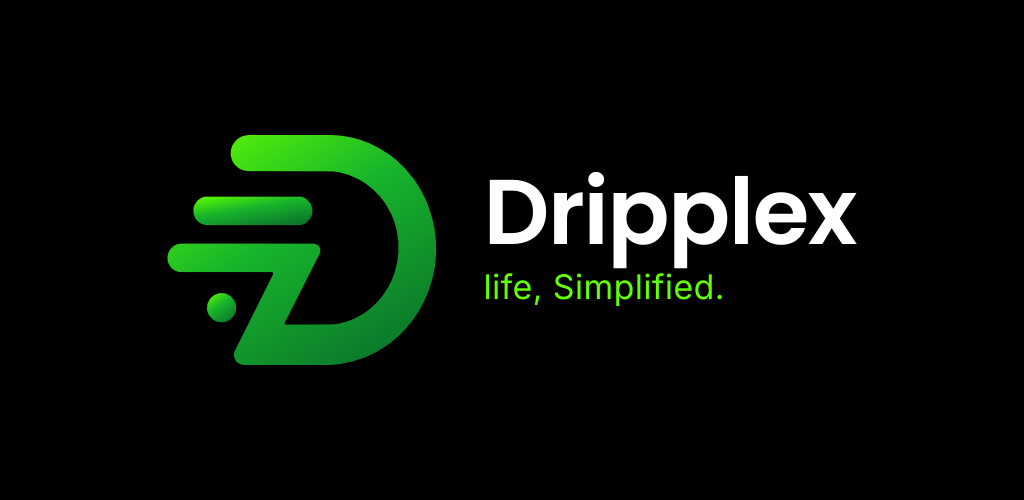
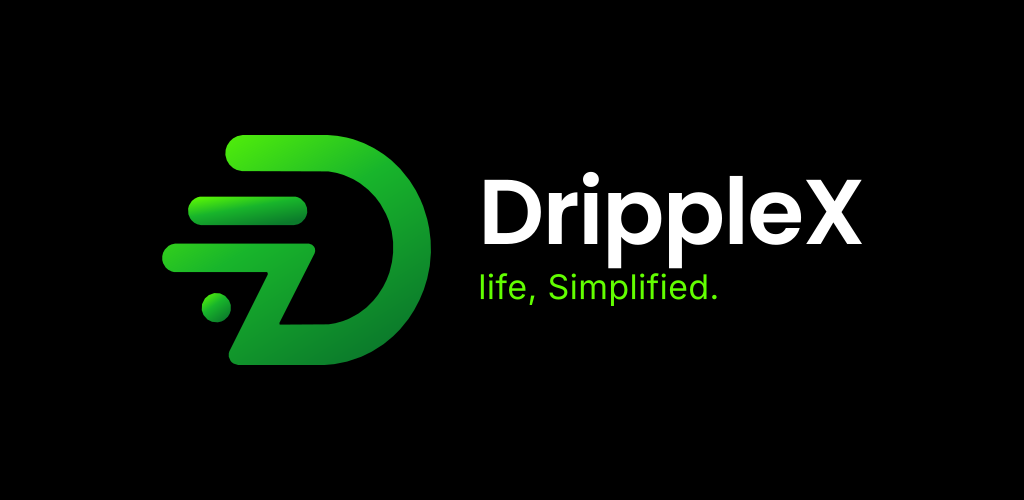
The app is called DrippleX, not Dripplex (#325)
* Record the DUNS, and what it does and does not unlock for iOS

Founder decision 2026-08-28: park App Store work until after Saturday's driver
dinner. Written down rather than remembered — this project runs across separate
sessions and the repo is the only thing that carries state between them.

Dun & Bradstreet issued the D-U-N-S on 2026-08-28, activating in 2-3 days. That
was the gate on Apple Developer Program ORGANIZATION enrolment: the difference
between publishing as DrippleX and publishing as an individual.

The note exists mainly for the two things that are easy to lose:

The legal-name check. Apple verifies the applicant against the D&B record, and
a mismatch is the usual reason an organization enrolment stalls for weeks.
DrippleX is a trading name of Afnan Homes Ltd (RC 9387949) per the Terms, so
which name the DUNS was issued under has to be confirmed with D&B and corrected
THERE, before applying — not after Apple rejects it.

And the blockers the DUNS does not remove: no macOS to archive on (CI validates
the scaffold only, so a .ipa needs Mac hardware, MacStadium or Xcode Cloud — a
purchase, not a code change), default app icons still waiting on the vector
logo, aps-environment still `development`, and no signing team.

Nothing here blocks Android, which is what the launch runs on.

Docs only.

Claude-Session: https://claude.ai/code/session_01X23TQjjx1mwLFzPHqgd2Kw

* The app icons were never a blocker — correct the row that said they were
[…]

diff --git a/apps/operations-console/src/app/layout.tsx b/apps/operations-console/src/app/layout.tsx
@@ -20,10 +20,10 @@ const sans = Manrope({
 
 export const metadata: Metadata = {
   title: {
-    default: 'Dripplex Operations Console',
-    template: `%s · Dripplex Operations Console`,
+    default: 'DrippleX Operations Console',
+    template: `%s · DrippleX Operations Console`,
   },
-  description: 'Dripplex operations console — live Backend Core integration via sdk-admin.',
+  description: 'DrippleX operations console — live Backend Core integration via sdk-admin.',
   icons: {
     icon: [{ url: '/favicon.svg', type: 'image/svg+xml' }],
     apple: [{ url: '/app-icon.svg' }],

diff --git a/apps/merchant-portal/src/app/layout.tsx b/apps/merchant-portal/src/app/layout.tsx
@@ -20,10 +20,10 @@ const sans = Manrope({
 
 export const metadata: Metadata = {
   title: {
-    default: 'Dripplex Merchant Portal',
-    template: `%s · Dripplex Merchant Portal`,
+    default: 'DrippleX Merchant Portal',
+    template: `%s · DrippleX Merchant Portal`,
   },
-  description: 'Dripplex merchant portal — live Backend Core integration via sdk-merchant.',
+  description: 'DrippleX merchant portal — live Backend Core integration via sdk-merchant.',
   icons: {
     icon: [{ url: '/favicon.svg', type: 'image/svg+xml' }],
     apple: [{ url: '/app-icon.svg' }],

diff --git a/apps/driver-portal/src/app/layout.tsx b/apps/driver-portal/src/app/layout.tsx
@@ -20,10 +20,10 @@ const sans = Manrope({
 
 export const metadata: Metadata = {
   title: {
-    default: 'Dripplex Driver Portal',
-    template: `%s · Dripplex Driver Portal`,
+    default: 'DrippleX Driver Portal',
+    template: `%s · DrippleX Driver Portal`,
   },
-  description: 'Dripplex driver portal — live Backend Core integration via sdk-driver.',
+  description: 'DrippleX driver portal — live Backend Core integration via sdk-driver.',
   icons: {
     icon: [{ url: '/favicon.svg', type: 'image/svg+xml' }],
     apple: [{ url: '/app-icon.svg' }],

diff --git a/apps/super-app/index.html b/apps/super-app/index.html
@@ -25,7 +25,7 @@
       <!-- Colours the Android status/URL bar to match the app instead of
            leaving a white strip above a navy screen. -->
       <meta name="theme-color" content="#060E1C" />
-      <title>Dripplex — life, Simplified</title>
+      <title>DrippleX — life, Simplified</title>
       <meta name="description" content="An all-in-one super app offering seamless ride-hailing, unified marketplace shopping, digital wallet, and merchant management for a simplified daily life." />
       <meta name="robots" content="noindex, nofollow" />
 

diff --git a/apps/rider-portal/src/app/layout.tsx b/apps/rider-portal/src/app/layout.tsx
@@ -20,10 +20,10 @@ const sans = Manrope({
 
 export const metadata: Metadata = {
   title: {
-    default: 'Dripplex Rider Portal',
-    template: `%s · Dripplex Rider Portal`,
+    default: 'DrippleX Rider Portal',
+    template: `%s · DrippleX Rider Portal`,
   },
-  description: 'Dripplex rider portal — live Backend Core integration via sdk-rider.',
+  description: 'DrippleX rider portal — live Backend Core integration via sdk-rider.',
   icons: {
     icon: [{ url: '/favicon.svg', type: 'image/svg+xml' }],
     apple: [{ url: '/app-icon.svg' }],

diff --git a/apps/customer-mobile/capacitor.config.ts b/apps/customer-mobile/capacitor.config.ts
@@ -21,7 +21,7 @@ const serverUrl = process.env['CAPACITOR_SERVER_URL'] ?? 'https://app.dripplex.c
 
 const config: CapacitorConfig = {
   appId: 'com.dripplex.customer',
-  appName: 'Dripplex',
+  appName: 'DrippleX',
   webDir: 'www',
   server: {
     url: serverUrl,

diff --git a/docs/mobile/IOS.md b/docs/mobile/IOS.md
@@ -34,13 +34,42 @@ pnpm exec cap open ios
 | ---------------------- | ----------------------------------------------------- |
 | Bundle identifier      | ✅                                                    |
 | Launch screen          | ✅ `LaunchScreen.storyboard`                          |
-| App icons              | ⚠ Default asset catalog — replace                    |
+| App icons              | ✅ DrippleX mark, 1024×1024 RGB — verified 2026-08-29 |
 | Universal Links        | ✅ entitlements + intent template                     |
 | Push (APNs)            | ✅ `UIBackgroundModes` + entitlements (`development`) |
 | Privacy Manifest       | ✅ `PrivacyInfo.xcprivacy`                            |
 | App Transport Security | ✅ HTTPS only (localhost exception)                   |
 | Non-exempt encryption  | ✅ `ITSAppUsesNonExemptEncryption = false`            |
 | Custom URL scheme      | ✅ `dripplex://`                                      |
+
+## App Store enrolment — parked until after the driver dinner
+
+Founder decision 2026-08-28: not now, revisit after Saturday.
+
+**The D-U-N-S number has been issued** (Dun & Bradstreet, 2026-08-28), activating
+in 2–3 days. That was the gate on Apple Developer Program **organization**
+enrolment — the difference between publishing as DrippleX and publishing as an
+individual.
+
+### Check before applying to Apple
+
+Apple verifies the applicant's legal entity name against the D&B record, and a
+mismatch is the most common cause of a stalled enrolment. DrippleX is a
+**trading name of Afnan Homes Ltd (RC 9387949)** (see
+`docs/legal/DPX-LEGAL-001-TERMS-OF-USE.md` §1), so confirm with D&B which legal
+name the DUNS was issued under and correct it there BEFORE applying, not after
+Apple bounces it.
+
+### Blockers that the DUNS does not remove
+
+| Blocker                                | Note                                                                                                                                                                                                                                                                                                                                                  |
+| -------------------------------------- | ----------------------------------------------------------------------------------------------------------------------------------------------------------------------------------------------------------------------------------------------------------------------------------------------------------------------------------------------------- |
+| **No macOS**                           | `xcodebuild archive` cannot run on Linux. CI validates the iOS scaffold only (the "iOS project preflight" job). Reaching a `.ipa` needs Mac hardware, MacStadium or Xcode Cloud — a purchase decision, not a code change.                                                                                                                             |
+| ~~App icons~~                          | **Not a blocker — this row was wrong when written.** The iOS asset catalog holds the real DrippleX mark at 1024×1024 RGB, and `verify-icons.mjs` passes all 32 native brand assets. Founder decision 2026-08-29: ship the current mark (D + speed lines, no X). The X lives on the driver bubble; the icon is modernised once the business is stable. |
+| **`aps-environment` is `development`** | `App.entitlements`. The App Store requires `production`. A one-line change, deliberately not made while the only builds are internal.                                                                                                                                                                                                                 |
+| **Signing team unset**                 | `CODE_SIGN_STYLE = Automatic`; the team is configured in Xcode, which needs the enrolled account.                                                                                                                                                                                                                                                     |
+
+Nothing here blocks Android, which is what the launch runs on.
 
 ## App Store Connect
 
